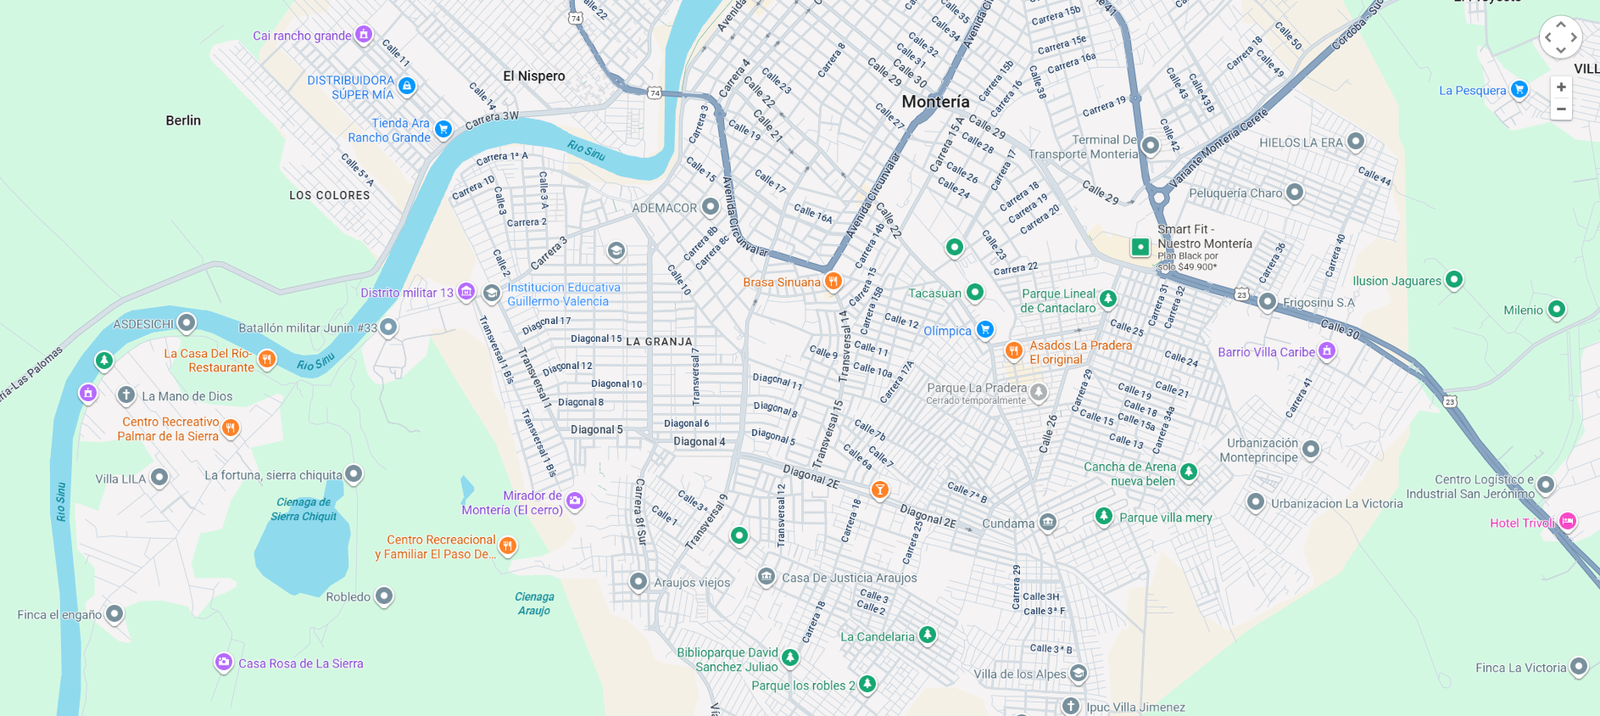
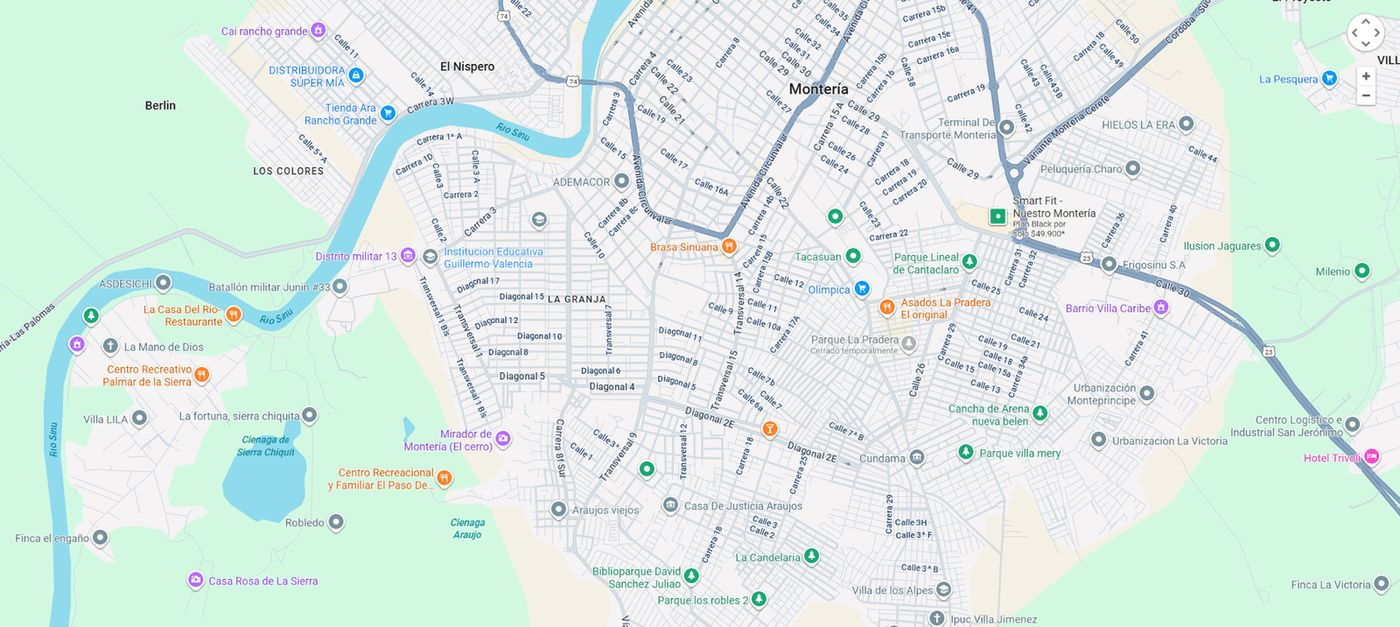
Reservas en el perfil, aviso de barbero y imagenes mas ligeras
Reservas:
- cargarMisReservas se lanzaba en paralelo con cargarDatosUsuario, asi
  que podia encontrarse user_data todavia sin escribir, salir por la
  rama vacia y marcarse como ya cargada: la pestana quedaba vacia el
  resto de la sesion aunque hubiera reservas. Ahora se encadena al
  terminar la carga del usuario.
- Al pulsar la pestana se recarga siempre, para que un fallo puntual no
  deje la vista congelada.

Reserva con servicio adicional:
- Si no hay ningun profesional de tipo "Ambos", showBarberSelectorInModal
  hacia return en silencio y el modal se quedaba en "Ningun barbero
  seleccionado" sin selector ni explicacion. Ahora lo dice en pantalla.

Imagenes:
- Dos PNG sin transparencia (fotos en el formato equivocado) tardaban
  3 s cada uno en cargar. Recomprimidos como JPEG conservando el nombre.
  5.57 MB -> 0.68 MB en total (88% menos).

diff --git a/Frontend/public/perfil/perfil.js b/Frontend/public/perfil/perfil.js
@@ -8,14 +8,14 @@ document.addEventListener('DOMContentLoaded', () => {
     }
     
     // Si hay sesión, cargar todo
-    cargarDatosUsuario();
     inicializarTabs();
     inicializarEdicion();
     mostrarBadgeEnHeader(); // Mostrar badge en el header
 
-    // Precargar las reservas sin esperar al clic en la pestana: si la pestana
-    // ya viene activa (o el usuario llega con #reservas) el contenido ya esta.
-    cargarMisReservas();
+    // Las reservas se cargan DESPUES de tener los datos del usuario:
+    // necesitan el id, y si se lanzan en paralelo pueden encontrarse
+    // user_data todavia sin escribir y marcar la pestana como vacia.
+    cargarDatosUsuario().then(() => cargarMisReservas(true));
 
     // Permitir enlazar directamente a la pestana con /perfil/#reservas
     if (window.location.hash === '#reservas') {
@@ -186,9 +186,11 @@ function inicializarTabs() {
                 tabContent.classList.add('active');
             }
 
-            // Cargar las reservas la primera vez que se abre la pestana
+            // Al abrir la pestana se recargan siempre: asi un fallo puntual
+            // (por ejemplo, abrir antes de tener los datos del usuario) no
+            // deja la pestana vacia para el resto de la sesion.
             if (tabName === 'reservas') {
-                cargarMisReservas();
+                cargarMisReservas(true);
             }
         });
     });

diff --git a/Frontend/public/Reserva/R-js/modal-reserva.js b/Frontend/public/Reserva/R-js/modal-reserva.js
@@ -612,6 +612,15 @@ class ReservaModalController {
 
             if (barberosAmbos.length === 0) {
                 console.error('❌ [BARBER-SELECTOR] No hay barberos tipo "Ambos" disponibles');
+                // Sin este aviso el modal se quedaba en "Ningun barbero
+                // seleccionado" y sin selector, sin explicar por que.
+                const nombreEl = document.getElementById('modalBarberName');
+                if (nombreEl) {
+                    nombreEl.textContent = 'Ningún profesional atiende corte y barba a la vez. Quita el servicio adicional para continuar.';
+                    nombreEl.style.display = 'block';
+                    nombreEl.style.color = '#b00';
+                    nombreEl.style.fontWeight = '500';
+                }
                 return;
             }
 
